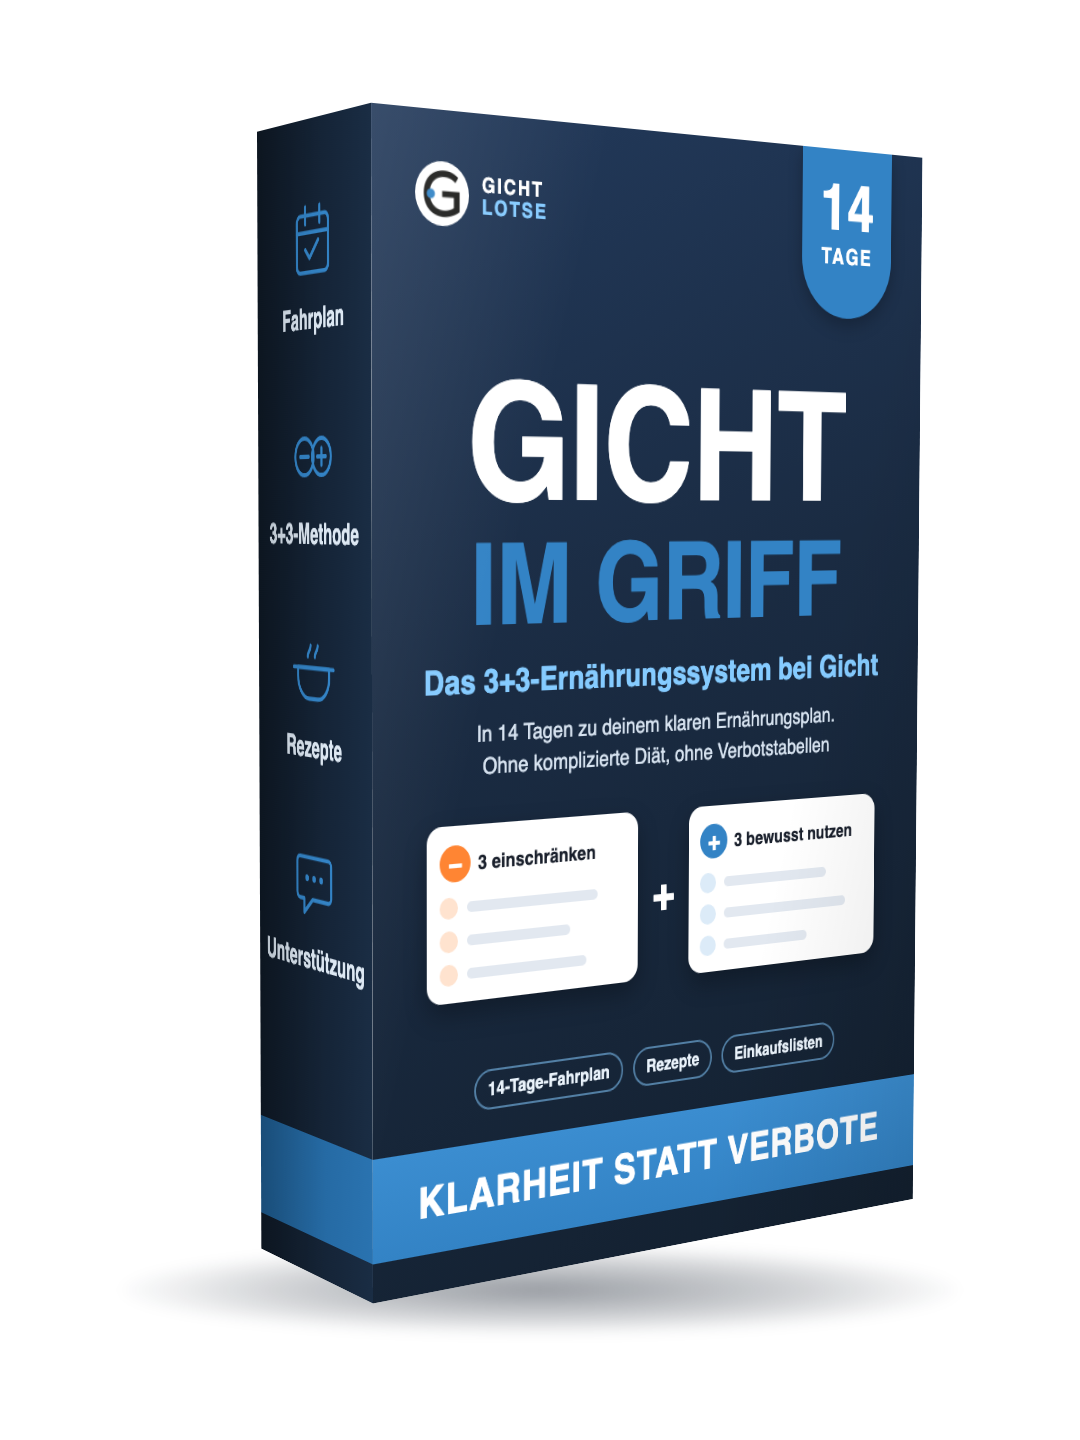
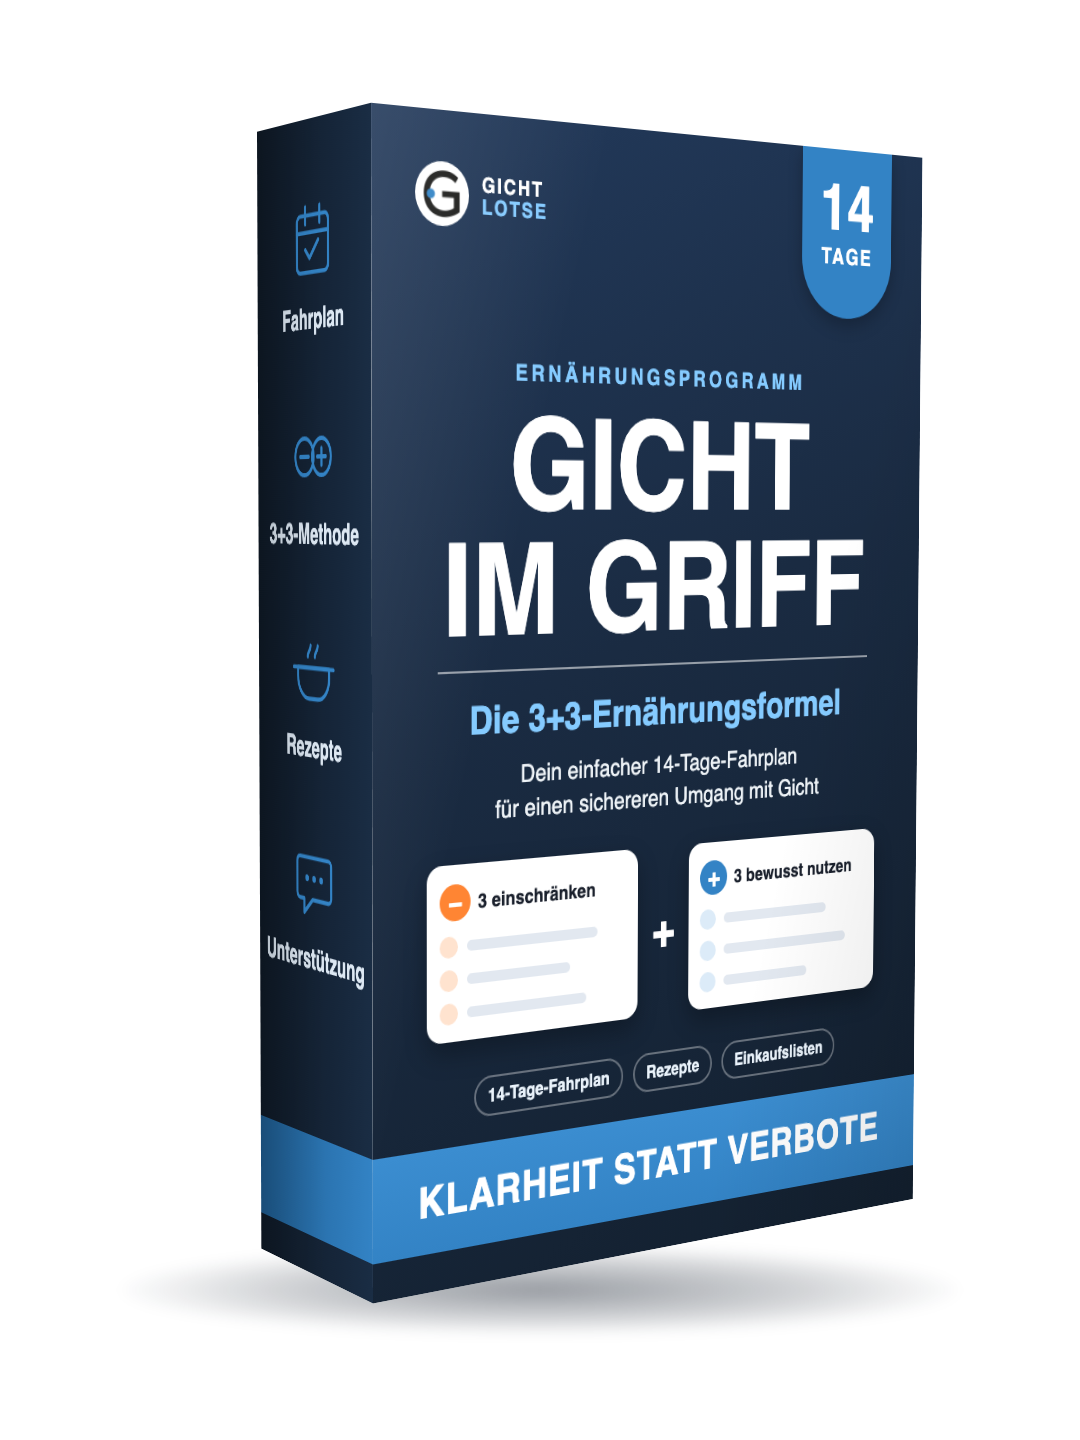
Neue Headline/Subheadline, Box-Front nach Design-Vorlage (Gold)
Box: Ernährungsprogramm, GICHT IM GRIFF, Die 3+3-Ernährungsformel,
14-Tage-Fahrplan. Blaue CI-Variante zusätzlich als cover-blau.png.

Changed region(s): [[0.3972, 0.25, 0.825, 0.7812]]

diff --git a/docs/mockup/box.html b/docs/mockup/box.html
@@ -7,13 +7,19 @@
   Quelle für bilder/cover.png. Neu rendern mit:
   "/Applications/Google Chrome.app/Contents/MacOS/Google Chrome" --headless=new --hide-scrollbars \
     --default-background-color=00000000 --window-size=1080,1440 \
-    --screenshot=bilder/cover.png "file://$PWD/docs/mockup/box.html"
+    --screenshot=docs/mockup/gicht-im-griff-box-gold-1080x1440.png "file://$PWD/docs/mockup/box.html?v=gold"
+  (ohne ?v=gold entsteht die blaue CI-Variante)
 -->
 <style>
 *{margin:0;padding:0;box-sizing:border-box;}
 html,body{width:1080px;height:1440px;background:transparent;overflow:hidden;}
 body{font-family:Helvetica,Arial,sans-serif;}
-:root{--blue:#3383C5;--blue-dark:#1159AF;--light:#85CBFF;--navy:#1A2B42;--navy2:#13202F;}
+/* Variante "blau" (CI gicht-lotse.de) ist Standard. Variante "gold" (wie Design-Vorlage) mit ?v=gold */
+:root{--blue:#3383C5;--light:#85CBFF;
+  --bg1:#22395A;--bg2:#1A2B42;--bg3:#13202F;--side1:#0F1A27;--side2:#16263A;--side3:#1A2D44;
+  --accent:#3383C5;--accent-ink:#fff;--accent-hi:#3B8DD0;--accent-lo:#1F5E93;--method:#85CBFF;--eyebrow:#85CBFF;}
+body.gold{--bg1:#25444F;--bg2:#1B2E35;--bg3:#142429;--side1:#0E1A1E;--side2:#15272D;--side3:#1A2F36;
+  --accent:#E3C98A;--accent-ink:#1B2E35;--accent-hi:#EAD39B;--accent-lo:#B89E62;--method:#E3C98A;--eyebrow:#E3C98A;}
 
 .scene{position:absolute;left:0;top:0;width:1080px;height:1440px;perspective:2600px;perspective-origin:42% 45%;}
 .shadow{position:absolute;left:120px;top:1245px;width:840px;height:90px;border-radius:50%;
@@ -24,13 +30,13 @@ body{font-family:Helvetica,Arial,sans-serif;}
 
 /* Vorderseite */
 .front{left:0;width:660px;transform:translateZ(105px);
-  background:linear-gradient(160deg,#22395A 0%,var(--navy) 45%,var(--navy2) 100%);}
+  background:linear-gradient(160deg,var(--bg1) 0%,var(--bg2) 45%,var(--bg3) 100%);}
 .front::after{content:"";position:absolute;inset:0;
   background:linear-gradient(105deg,rgba(255,255,255,.10) 0%,rgba(255,255,255,0) 28%,rgba(255,255,255,0) 70%,rgba(0,0,0,.10) 100%);}
 
 /* Seitenrücken links */
 .side{left:225px;width:210px;transform:rotateY(-90deg) translateZ(330px);
-  background:linear-gradient(90deg,#0F1A27 0%,#16263A 70%,#1A2D44 100%);}
+  background:linear-gradient(90deg,var(--side1) 0%,var(--side2) 70%,var(--side3) 100%);}
 .side::after{content:"";position:absolute;inset:0;background:linear-gradient(90deg,rgba(0,0,0,.18),rgba(0,0,0,0) 60%);}
 
 /* Oberseite (minimal sichtbar) */
@@ -43,24 +49,23 @@ body{font-family:Helvetica,Arial,sans-serif;}
 .brand .t{color:#fff;font-weight:700;font-size:19px;letter-spacing:2px;line-height:1.05;}
 .brand .t span{display:block;color:var(--light);}
 
-.badge{position:absolute;right:42px;top:0;width:118px;height:168px;background:var(--blue);
-  border-radius:0 0 59px 59px;color:#fff;text-align:center;padding-top:26px;box-shadow:0 6px 18px rgba(0,0,0,.25);}
+.badge{position:absolute;right:42px;top:0;width:118px;height:168px;background:var(--accent);
+  border-radius:0 0 59px 59px;color:var(--accent-ink);text-align:center;padding-top:26px;box-shadow:0 6px 18px rgba(0,0,0,.25);}
 .badge b{display:block;font-size:64px;font-weight:900;line-height:1;}
 .badge i{display:block;font-style:normal;font-size:22px;font-weight:800;letter-spacing:2px;margin-top:4px;}
 
-.title{position:absolute;left:0;right:0;top:228px;text-align:center;color:#fff;font-weight:900;
-  font-size:150px;line-height:.95;letter-spacing:-2px;}
-.title span{color:var(--blue);}
-.title small{display:block;font-size:104px;color:var(--blue);letter-spacing:-1px;margin-top:10px;}
-.subtitle{position:absolute;left:0;right:0;top:500px;text-align:center;color:var(--light);font-size:31px;font-weight:700;}
-.tag{position:absolute;left:70px;right:70px;top:552px;text-align:center;color:#D7E3F0;font-size:21px;line-height:1.45;}
+.eyebrow{position:absolute;left:0;right:0;top:222px;text-align:center;color:var(--eyebrow);font-size:21px;font-weight:700;letter-spacing:4px;}
+.title{position:absolute;left:0;right:0;top:262px;text-align:center;color:#fff;font-weight:900;font-size:118px;line-height:.98;letter-spacing:-1px;}
+.rule{position:absolute;left:70px;right:70px;top:508px;height:2px;background:rgba(255,255,255,.55);}
+.method{position:absolute;left:0;right:0;top:534px;text-align:center;color:var(--method);font-size:36px;font-weight:800;}
+.tag{position:absolute;left:80px;right:80px;top:590px;text-align:center;color:#EEF3F7;font-size:23px;line-height:1.4;}
 
-.panel{position:absolute;left:58px;right:58px;top:650px;display:flex;gap:18px;align-items:stretch;}
+.panel{position:absolute;left:58px;right:58px;top:686px;display:flex;gap:18px;align-items:stretch;}
 .card{flex:1;background:#fff;border-radius:16px;padding:18px 14px 16px;box-shadow:0 10px 24px rgba(0,0,0,.28);}
 .card h4{display:flex;align-items:center;gap:8px;font-size:18.5px;white-space:nowrap;color:#1A202C;font-weight:800;}
 .card .ic{width:34px;height:34px;border-radius:50%;display:flex;align-items:center;justify-content:center;color:#fff;font-size:26px;font-weight:900;line-height:1;}
 .card.minus .ic{background:#FF8533;}
-.card.plus .ic{background:var(--blue);}
+.card.plus .ic{background:var(--accent);color:var(--accent-ink);}
 .card ul{list-style:none;margin-top:14px;display:flex;flex-direction:column;gap:11px;}
 .card li{display:flex;align-items:center;gap:10px;}
 .card li em{width:20px;height:20px;border-radius:50%;flex:0 0 auto;}
@@ -69,20 +74,21 @@ body{font-family:Helvetica,Arial,sans-serif;}
 .card li s{display:block;height:10px;border-radius:5px;background:#E2E8F0;text-decoration:none;}
 .join{align-self:center;color:#fff;font-size:46px;font-weight:900;}
 
-.chips{position:absolute;left:0;right:0;top:880px;display:flex;justify-content:center;gap:12px;}
-.chips span{border:2px solid rgba(133,203,255,.55);color:#EAF3FB;font-size:17px;font-weight:700;padding:7px 14px;border-radius:30px;}
+.chips{position:absolute;left:0;right:0;top:886px;display:flex;justify-content:center;gap:12px;}
+.chips span{border:2px solid rgba(255,255,255,.35);color:#EAF3FB;font-size:17px;font-weight:700;padding:7px 14px;border-radius:30px;}
 
-.band{position:absolute;left:0;right:0;top:948px;height:96px;background:linear-gradient(180deg,#3B8DD0,var(--blue));
-  display:flex;align-items:center;justify-content:center;color:#fff;font-weight:900;font-size:40px;letter-spacing:1px;}
+.band{position:absolute;left:0;right:0;top:948px;height:96px;background:linear-gradient(180deg,var(--accent-hi),var(--accent));
+  display:flex;align-items:center;justify-content:center;color:var(--accent-ink);font-weight:900;font-size:40px;letter-spacing:1px;}
 
 /* Inhalt Seitenrücken */
-.spine-band{position:absolute;left:0;right:0;top:948px;height:96px;background:linear-gradient(90deg,#1F5E93,#2A73B0);}
+.spine-band{position:absolute;left:0;right:0;top:948px;height:96px;background:linear-gradient(90deg,var(--accent-lo),var(--accent));}
 .spine{position:absolute;left:0;right:0;top:70px;display:flex;flex-direction:column;align-items:center;gap:70px;}
 .spine div{display:flex;flex-direction:column;align-items:center;gap:14px;color:#DDE8F3;font-size:27px;font-weight:700;}
-.spine svg{width:84px;height:84px;stroke:var(--blue);fill:none;stroke-width:3;stroke-linecap:round;stroke-linejoin:round;}
+.spine svg{width:84px;height:84px;stroke:var(--accent);fill:none;stroke-width:3;stroke-linecap:round;stroke-linejoin:round;}
 </style>
 </head>
 <body>
+<script>if(new URLSearchParams(location.search).get("v")==="gold")document.body.classList.add("gold");</script>
 <div class="scene">
   <div class="shadow"></div>
   <div class="box">
@@ -101,9 +107,11 @@ body{font-family:Helvetica,Arial,sans-serif;}
       <div class="brand"><div class="g"><img src="../../bilder/favicon.png" alt=""></div><div class="t">GICHT<span>LOTSE</span></div></div>
       <div class="badge"><b>14</b><i>TAGE</i></div>
 
-      <div class="title">GICHT<small>IM GRIFF</small></div>
-      <div class="subtitle">Das 3+3-Ernährungssystem bei Gicht</div>
-      <div class="tag">In 14 Tagen zu deinem klaren Ernährungsplan.<br>Ohne komplizierte Diät, ohne Verbotstabellen</div>
+      <div class="eyebrow">ERNÄHRUNGSPROGRAMM</div>
+      <div class="title">GICHT<br>IM GRIFF</div>
+      <div class="rule"></div>
+      <div class="method">Die 3+3-Ernährungsformel</div>
+      <div class="tag">Dein einfacher 14-Tage-Fahrplan<br>für einen sichereren Umgang mit Gicht</div>
 
       <div class="panel">
         <div class="card minus"><h4><span class="ic">−</span>3 einschränken</h4>

diff --git a/index.html b/index.html
@@ -64,8 +64,8 @@ a.buy:hover .btn{background:var(--btnhover);}
   <div class="head">
     <img class="logo" src="bilder/logo-web.jpg" alt="Gicht Lotse">
     <span class="eyebrow">Für Männer ab 45 mit Gicht</span>
-    <h1>In 14 Tagen vom Ernährungschaos zu einem <span class="t">klaren Plan</span></h1>
-    <p class="sub">Das einfache 3+3-System zeigt dir, was du einschränkst und was du bewusst isst. Ohne komplizierte Diät, ohne Verbotstabellen, ohne stundenlange Recherche.</p>
+    <h1><span class="t">Gicht im Griff</span>: In nur 14 Tagen raus aus dem Ernährungschaos, rein in einen Alltag mit mehr Sicherheit und Lebensfreude</h1>
+    <p class="sub">Entdecke die einfache 3+3-Ernährungsmethode: 3 Lebensmittelgruppen, die du einschränkst, und 3, die du bewusst nutzt. Ohne komplizierte Diäten und stundenlange Recherche.</p>
   </div>
 
   <div class="hero">

diff --git a/README.md b/README.md
@@ -24,7 +24,8 @@ Verkaufsseite für **GICHT IM GRIFF**, ein 14-Tage-Ernährungssystem für Männe
 ## Aufbau
 
 - `index.html`: die komplette Seite (HTML und CSS in einer Datei)
-- `bilder/cover.png`: 3D-Box-Mockup GICHT IM GRIFF (720 × 960 px, transparenter Hintergrund)
+- `bilder/cover.png`: 3D-Box-Mockup GICHT IM GRIFF, Gold-Variante nach Design-Vorlage (720 × 960 px, transparent)
+- `bilder/cover-blau.png`: dieselbe Box in der blauen CI von gicht-lotse.de
 - `bilder/logo-web.jpg`: Gicht-Lotse-Logo für den Seitenkopf (520 px breit, aus `logo/gicht-lotse-logo-quer.jpg`)
 - `bilder/favicon.png`: Browser-Icon (180 px, aus `logo/gicht-lotse-icon-quadrat.webp`)
 - `bilder/logo/`: alle Original-Logo-Varianten (quer, 16:9, quadratisch, nur das G-Icon)
@@ -32,7 +33,7 @@ Verkaufsseite für **GICHT IM GRIFF**, ein 14-Tage-Ernährungssystem für Männe
 - `docs/lovable-prompt.md`: fertiger Prompt, um die Seite in Lovable zu bauen
 - `docs/copy-notizen.md`: Produktnamen und Hinweise zur Copy
 - `docs/mockup/box.html`: Quelle des Box-Mockups (HTML/CSS 3D). Texte und Farben dort ändern und neu rendern, der Befehl steht oben in der Datei
-- `docs/mockup/gicht-im-griff-box-1080x1440.png`: Box-Mockup in voller Größe, z. B. für Social Media oder bryght.social
+- `docs/mockup/gicht-im-griff-box-gold-1080x1440.png` und `…-box-1080x1440.png` (blau): Box-Mockups in voller Größe, z. B. für Social Media oder bryght.social
 - `docs/referenz/mockup-pre-kurs-strategie.webp`: Box-Mockup aus dem Referenzprojekt, als Vorlage für ein eigenes GICHT-IM-GRIFF-Cover. **Nicht selbst auf der Seite verwenden.**
 
 ## Noch offen

diff --git a/docs/lovable-prompt.md b/docs/lovable-prompt.md
@@ -82,8 +82,8 @@ a.buy:hover .btn{background:var(--btnhover);}
   <div class="head">
     <img class="logo" src="bilder/logo-web.jpg" alt="Gicht Lotse">
     <span class="eyebrow">Für Männer ab 45 mit Gicht</span>
-    <h1>In 14 Tagen vom Ernährungschaos zu einem <span class="t">klaren Plan</span></h1>
-    <p class="sub">Das einfache 3+3-System zeigt dir, was du einschränkst und was du bewusst isst. Ohne komplizierte Diät, ohne Verbotstabellen, ohne stundenlange Recherche.</p>
+    <h1><span class="t">Gicht im Griff</span>: In nur 14 Tagen raus aus dem Ernährungschaos, rein in einen Alltag mit mehr Sicherheit und Lebensfreude</h1>
+    <p class="sub">Entdecke die einfache 3+3-Ernährungsmethode: 3 Lebensmittelgruppen, die du einschränkst, und 3, die du bewusst nutzt. Ohne komplizierte Diäten und stundenlange Recherche.</p>
   </div>
 
   <div class="hero">
